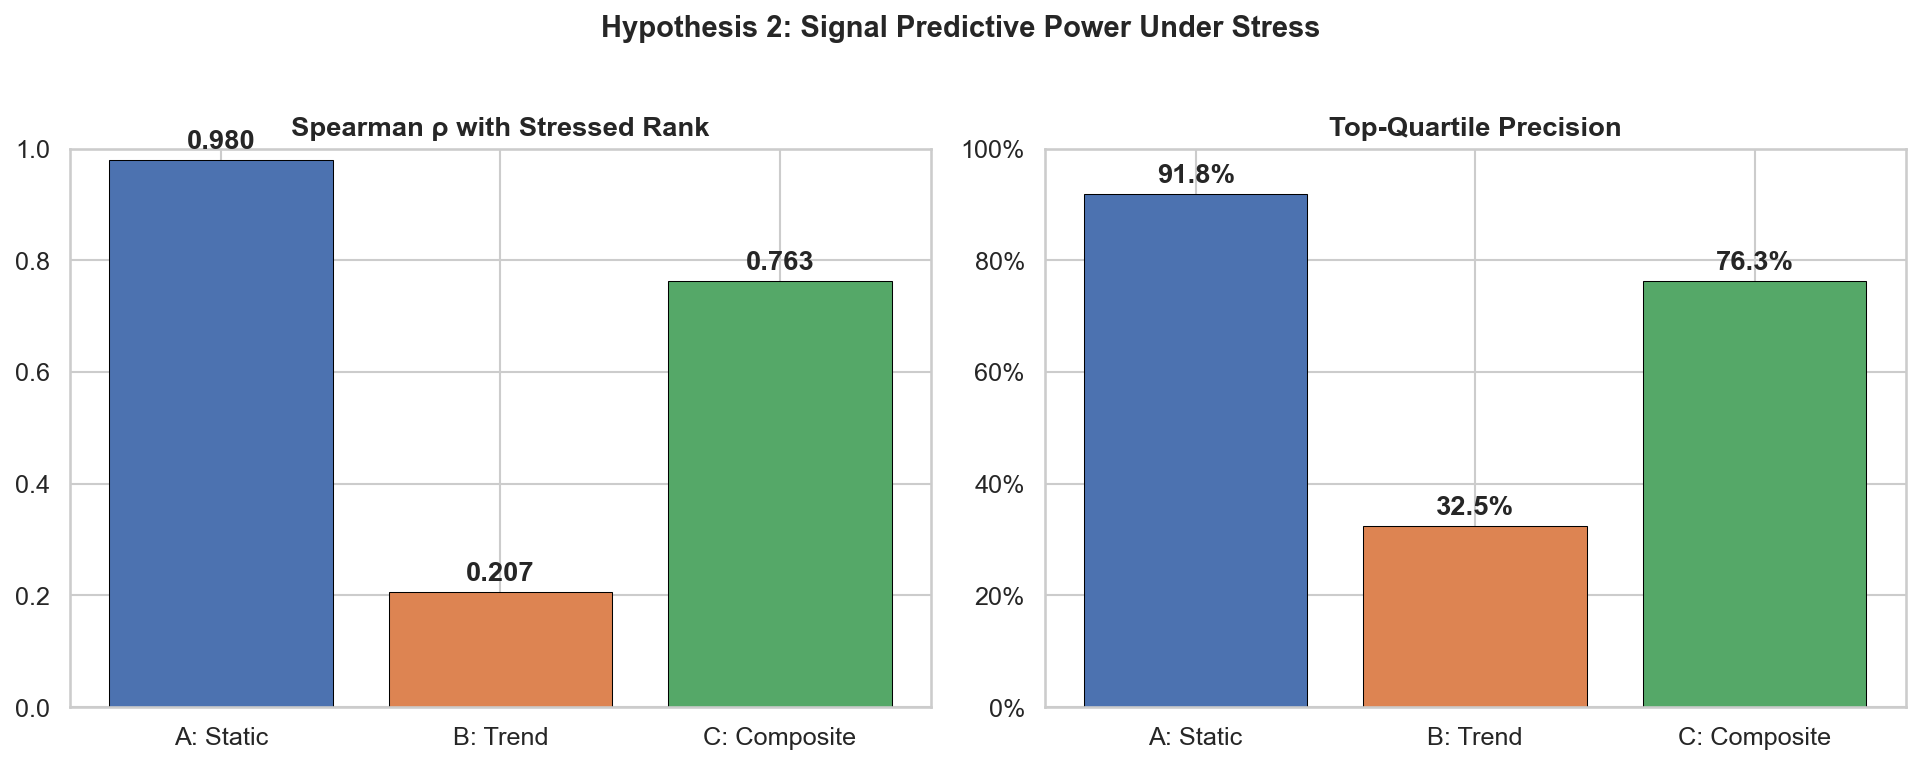
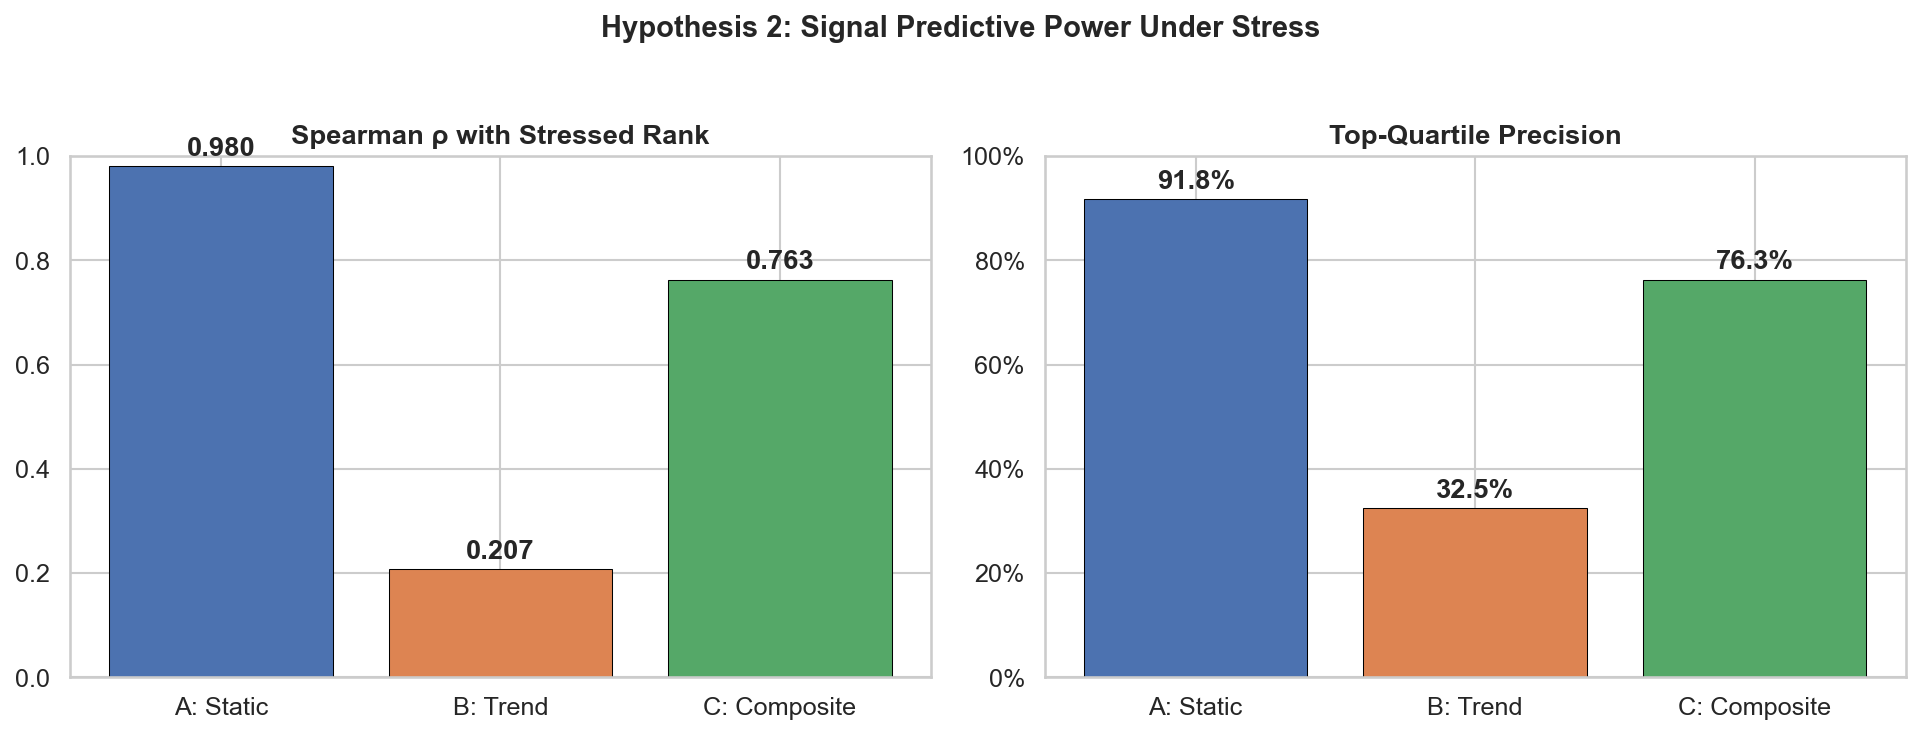
Fix plot layout: proportional annotations, suptitle whitespace

diff --git a/src/visualization.py b/src/visualization.py
@@ -34,14 +34,18 @@ def plot_fragility_by_source(df_with_bins, decomp_summary, output_dir=RESULTS_DI
                 edgecolor="black", linewidth=0.5)
     axes[1].set_title("Inversion Rate by CAC Source Bin")
     axes[1].set_ylabel("Fraction Inverted")
-    axes[1].yaxis.set_major_formatter(mtick.PercentFormatter(xmax=1, decimals=1))
+    axes[1].yaxis.set_major_formatter(mtick.PercentFormatter(xmax=1, decimals=2))
     axes[1].tick_params(axis="x", rotation=15)
+    # Proportional annotation offset (5% of max bar height, min 0.0001)
+    max_inv = max(decomp_summary["inversion_rate"].max(), 0.0001)
+    offset = max_inv * 0.08
     for i, (_, row) in enumerate(decomp_summary.iterrows()):
-        axes[1].text(i, row["inversion_rate"] + 0.005, f"{row['inversion_rate']:.1%}",
+        axes[1].text(i, row["inversion_rate"] + offset,
+                     f"{row['inversion_rate']:.2%}",
                      ha="center", va="bottom", fontsize=9, fontweight="bold")
-    plt.suptitle("Hypothesis 1: Decomposition Fragility Under 30% CAC Shock",
-                 fontsize=14, fontweight="bold", y=1.02)
-    plt.tight_layout()
+    fig.suptitle("Hypothesis 1: Decomposition Fragility Under 30% CAC Shock",
+                 fontsize=14, fontweight="bold")
+    fig.tight_layout(rect=[0, 0, 1, 0.95])
     path = output_dir / "fragility_by_source.png"
     fig.savefig(path, bbox_inches="tight"); plt.close(fig)
     print(f"  Saved: {path}"); return path
@@ -65,8 +69,8 @@ def plot_signal_comparison(signal_df, output_dir=RESULTS_DIR):
     axes[1].yaxis.set_major_formatter(mtick.PercentFormatter(xmax=1))
     for bar, v in zip(b2, overall["top_quartile_precision"].values):
         axes[1].text(bar.get_x()+bar.get_width()/2, v+0.02, f"{v:.1%}", ha="center", fontweight="bold")
-    plt.suptitle("Hypothesis 2: Signal Predictive Power Under Stress", fontsize=14, fontweight="bold", y=1.02)
-    plt.tight_layout()
+    fig.suptitle("Hypothesis 2: Signal Predictive Power Under Stress", fontsize=14, fontweight="bold")
+    fig.tight_layout(rect=[0, 0, 1, 0.95])
     path = output_dir / "signal_comparison.png"
     fig.savefig(path, bbox_inches="tight"); plt.close(fig)
     print(f"  Saved: {path}"); return path
